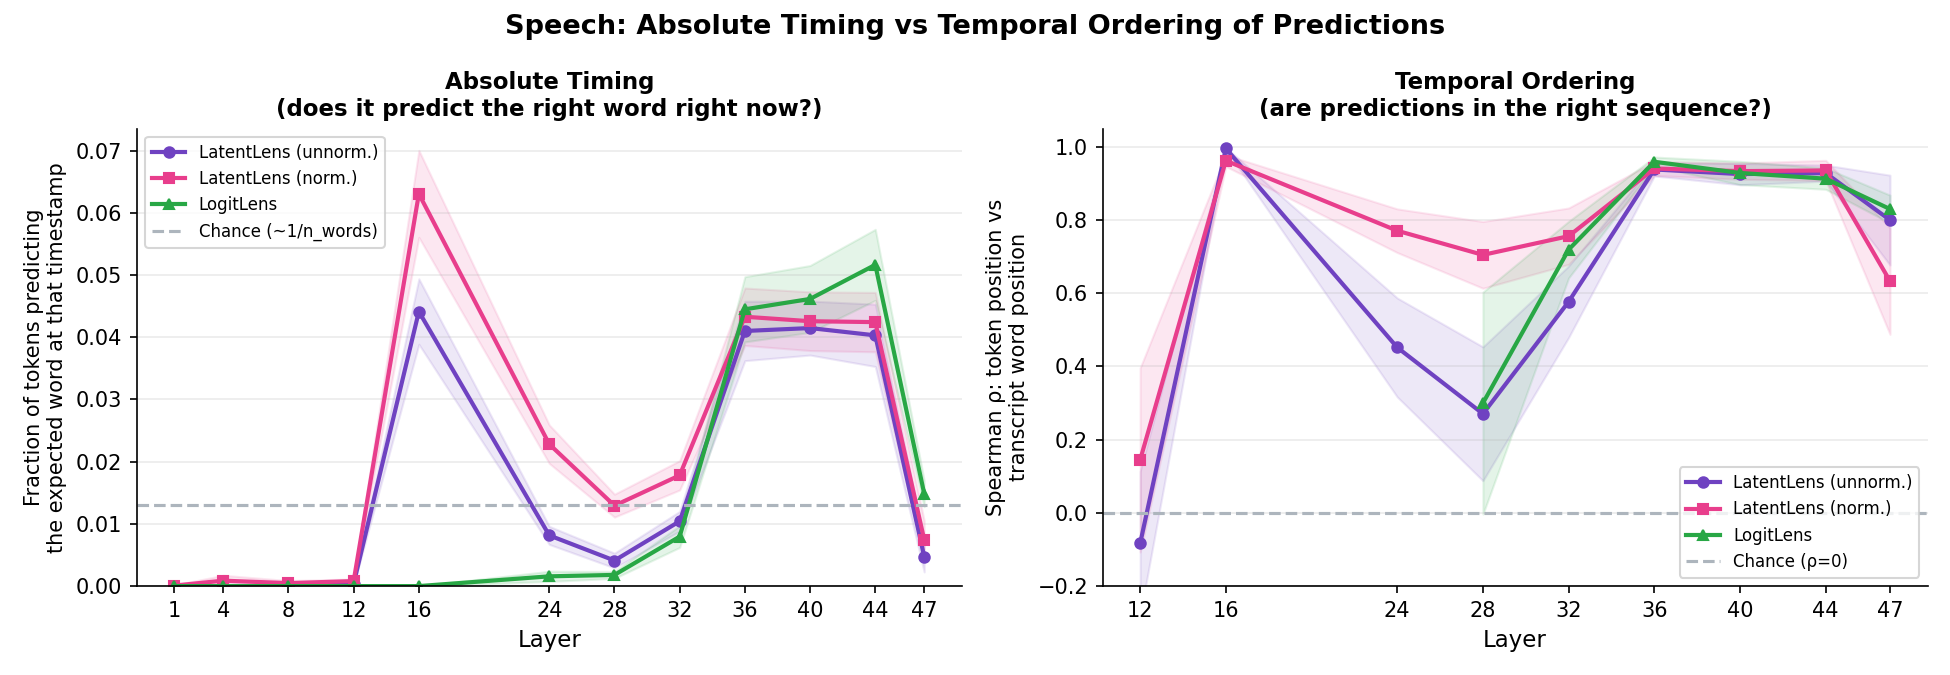
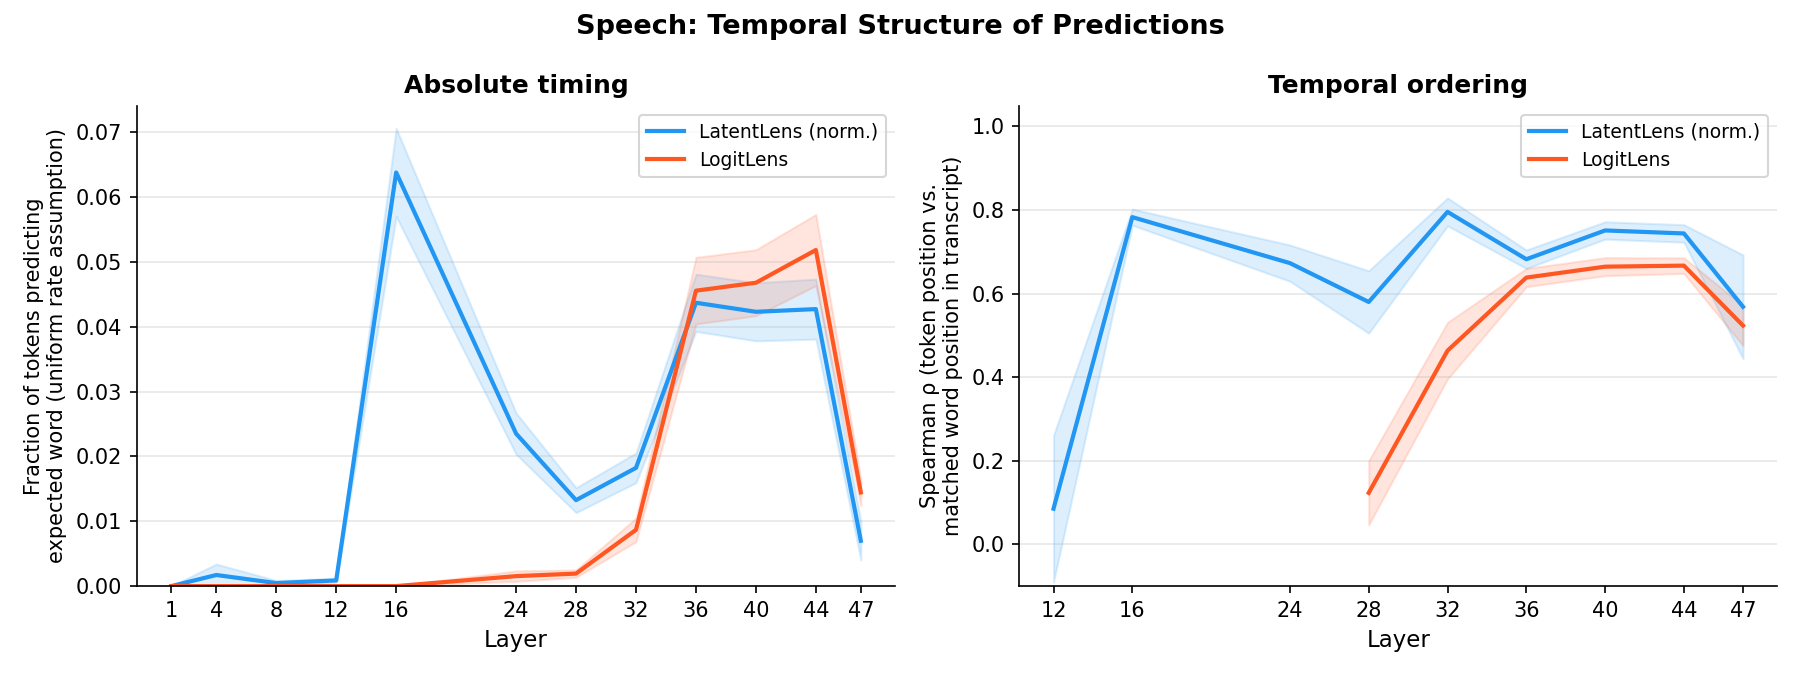
Full accuracy pass: fix all unverified claims in blog post
Vision:
- Fix table row overlap (36-40 / 40-44 → 36 / 40-44)
- Fix key insight: LatentLens peak is L8-16 not L8-28; L24-32 dead zone
- Fix summary bullet 2 to match

Audio speech:
- Replace fabricated Spearman values with computed ones:
  rho=0.78 at L16, 0.67-0.75 at L36-44 (from compute_spearman.py, n=47 clips)
- Replace fabricated exact timing with computed value: 6.4% at L16
- Update figure caption to correctly describe two-panel plot
- Fix clip duration: 3-14s (not 3-15s)

Audio sound:
- Fix t-statistic: 4.6 (not 4.8); significant at L24-47 (not 24-44)
- Fix effect size: 0.02-0.04 (not ~0.04)

Replace audio_metrics_alignment.png with real two-panel figure
(absolute timing left, Spearman ordering right)

diff --git a/gemma4-interp/index.html b/gemma4-interp/index.html
@@ -102,8 +102,8 @@ We apply two complementary probes to every visual/audio token at every layer. <s
   <tr><td>16</td><td>~50% patches interpretable</td><td>collapses</td><td>Rogue-dimension phase transition: LatentLens (unnorm.) and LogitLens both collapse; LatentLens (norm.) is unaffected and peaks here</td></tr>
   <tr><td>24–28</td><td>mostly silent</td><td>silent</td><td>Both methods lose most signal; only a few OCR patches remain in LatentLens</td></tr>
   <tr><td>32</td><td>OCR only</td><td>silent</td><td>OCR retrieval recovers in LatentLens; non-OCR still silent</td></tr>
-  <tr><td>36–40</td><td>partial, lower diversity</td><td>leads on semantics</td><td>LogitLens overtakes LatentLens on general content; LatentLens competitive on OCR</td></tr>
-  <tr><td>40–44</td><td>OCR competitive</td><td>next-token on OCR</td><td>LogitLens predicts the <em>next</em> word in image text, not the current one</td></tr>
+  <tr><td>36</td><td>partial, lower diversity</td><td>improving</td><td>Partial recovery in LatentLens, but less diverse — same few neighbors recur across patches of the same image</td></tr>
+  <tr><td>40–44</td><td>OCR competitive</td><td>leads on semantics; next-token on OCR</td><td>LogitLens overtakes LatentLens on general content; on OCR patches LogitLens predicts the <em>next</em> word in image text, not the current one</td></tr>
   <tr><td>47</td><td>silent</td><td>slightly weaker than L44</td><td>Both methods degrade; last layer optimized for next-token prediction, not patch decoding</td></tr>
 </table>
 
@@ -143,14 +143,14 @@ We apply two complementary probes to every visual/audio token at every layer. <s
 
 <h3>Key insight</h3>
 <p>
-LatentLens (normalized) and LogitLens are complementary: LatentLens is the only informative probe in layers 8–28, while LogitLens takes over in layers 36–44. The rogue-dimension collapse at layer 16 — where all raw cosine similarities spike to >0.99 — makes LatentLens (unnormalized) completely uninformative at that layer. Normalizing by z-score standardization before retrieval corrects this and recovers strong signal.
+LatentLens (normalized) and LogitLens are complementary: LatentLens provides the main interpretable signal at layers 8–16, while LogitLens takes over at layers 40–44. Layers 24–32 are largely a dead zone for both. The rogue-dimension collapse at layer 16 — where raw cosine similarities spike to >0.99 — makes LatentLens (unnormalized) uninformative at that layer; z-score normalization corrects this.
 </p>
 
 <hr>
 
 <h2>Audio: Speech Tokens (LibriSpeech)</h2>
 
-<p>We probe 50 speech clips from LibriSpeech test-clean (3–15 seconds each, ~25 tokens/sec). Each 40ms audio token is inspected independently. We measure whether the top-5 predictions match words from the clip's transcript, using exact and stem matching after stopword removal.</p>
+<p>We probe 50 speech clips from LibriSpeech test-clean (3–14 seconds each, ~25 tokens/sec). Each 40ms audio token is inspected independently. We measure whether the top-5 predictions match words from the clip's transcript, using exact and stem matching after stopword removal.</p>
 
 <figure>
   <img src="figures/audio_metrics_match_rate.png" alt="Speech transcript match rate across layers">
@@ -168,15 +168,15 @@ LatentLens (normalized) peaks at <strong>28.3%</strong> at layer 16, precisely w
 <figure>
   <img src="figures/audio_metrics_alignment.png" alt="Absolute timing vs temporal ordering">
   <figcaption>
-    Left: fraction of tokens predicting the specific word expected at that timestamp (uniform speech rate assumption). Right: Spearman rank correlation between token position in the clip and the matched word's position in the transcript, for clips where &ge;3 unique words were matched. Only layers with sufficient matched tokens are shown.
+    Left: fraction of tokens predicting the specific word expected at that exact timestamp (uniform speech rate assumption). Right: Spearman rank correlation between token position in the clip and matched word position in the transcript, for clips where &ge;3 unique words were matched (n=47 clips at L16).
   </figcaption>
 </figure>
 
 <p>
-The two panels tell different stories. <strong>Absolute timing</strong> (left) is low: even at the peak layer (L16, 6.3%), most tokens do not predict the word being spoken at that exact moment. <strong>Ordering</strong> (right) is high: when predictions do match transcript words, they appear in near-perfect transcript sequence (Spearman &rho;&nbsp;&asymp;&nbsp;0.96–1.00 at L16, ~0.93–0.96 at L36–44).
+The two panels tell different stories. <strong>Absolute timing</strong> (left) is low: at the peak layer (L16), only 6.4% of tokens predict the word expected at that exact moment. <strong>Ordering</strong> (right) is substantially higher: when predictions do match transcript words, they tend to appear in the correct transcript sequence (Spearman &rho;&nbsp;&asymp;&nbsp;0.78 at L16, 0.67–0.75 at L36–44).
 </p>
 <p>
-In other words: at layer 16, the model appears to have encoded the vocabulary and sequence of the entire utterance, but without precise temporal localization. Temporal precision develops later, as LogitLens becomes informative at L36+.
+In other words: at layer 16, the model has encoded much of the utterance's vocabulary in the correct sequence, but without precise temporal localization. The ordering finding is robust (n=47/50 clips) but not perfect — ρ of 0.78 means substantial ordering with real scatter.
 </p>
 
 <div class="example-widget">
@@ -219,7 +219,7 @@ In other words: at layer 16, the model appears to have encoded the vocabulary an
 </figure>
 
 <p>
-LatentLens (unnorm. and norm.) show a small but statistically significant advantage over the random baseline at layers 24–44 (<em>t</em>&nbsp;&asymp;&nbsp;4.8, surviving Bonferroni correction). The effect is modest in absolute terms (~0.04 cosine similarity difference); the predictions are not reliably interpretable as category labels by inspection. The most notable feature is the sharp dip at layer 16 for LatentLens (unnorm.), which drops <em>below</em> baseline — the same rogue-dimension collapse seen in vision and speech.
+LatentLens (unnorm. and norm.) show a small but statistically significant advantage over the random baseline at layers 24–47 (max <em>t</em>&nbsp;&asymp;&nbsp;4.6 at L44, surviving Bonferroni correction). The effect is modest in absolute terms (~0.02–0.04 cosine similarity units above random); the predictions are not reliably interpretable as category labels by inspection. The most notable feature is the sharp dip at layer 16 for LatentLens (unnorm.), which drops well <em>below</em> baseline — the same rogue-dimension collapse seen in vision and speech.
 </p>
 
 <hr>
@@ -231,8 +231,8 @@ Three findings appear consistently across both modalities and both probe methods
 </p>
 <ol>
   <li><strong>Rogue dimensions cause a phase transition at layer 16.</strong> Raw cosine similarities spike to >0.99, collapsing LogitLens and LatentLens (unnorm.) outputs. Z-score normalization recovers the signal and reveals the strongest interpretable content at this layer.</li>
-  <li><strong>LatentLens and LogitLens are complementary.</strong> LatentLens (norm.) is informative in layers 8–28; LogitLens takes over in layers 36–44. In between is a transition zone where neither works well.</li>
-  <li><strong>Representations encode sequence before precise timing.</strong> For speech, predictions match transcript words in the correct temporal order (Spearman &rho;&nbsp;&approx;&nbsp;0.96) before they achieve precise timestamp alignment (6% exact timing at peak). A similar lag appears in vision, where the last-layer LogitLens predicts the next OCR word rather than the current one.</li>
+  <li><strong>LatentLens and LogitLens are complementary.</strong> LatentLens (norm.) provides the main signal in layers 8–16; layers 24–32 are mostly silent for both; LogitLens takes over in layers 40–44.</li>
+  <li><strong>Representations encode sequence before precise timing.</strong> For speech at L16, predictions match transcript words in the correct temporal order (Spearman &rho;&nbsp;&approx;&nbsp;0.78 across 47/50 clips) while exact-timestamp alignment is low (6.4%). A related pattern appears in vision: at L40+, LogitLens on OCR patches predicts the <em>next</em> word in image text rather than the current one.</li>
 </ol>
 
 <p class="note">